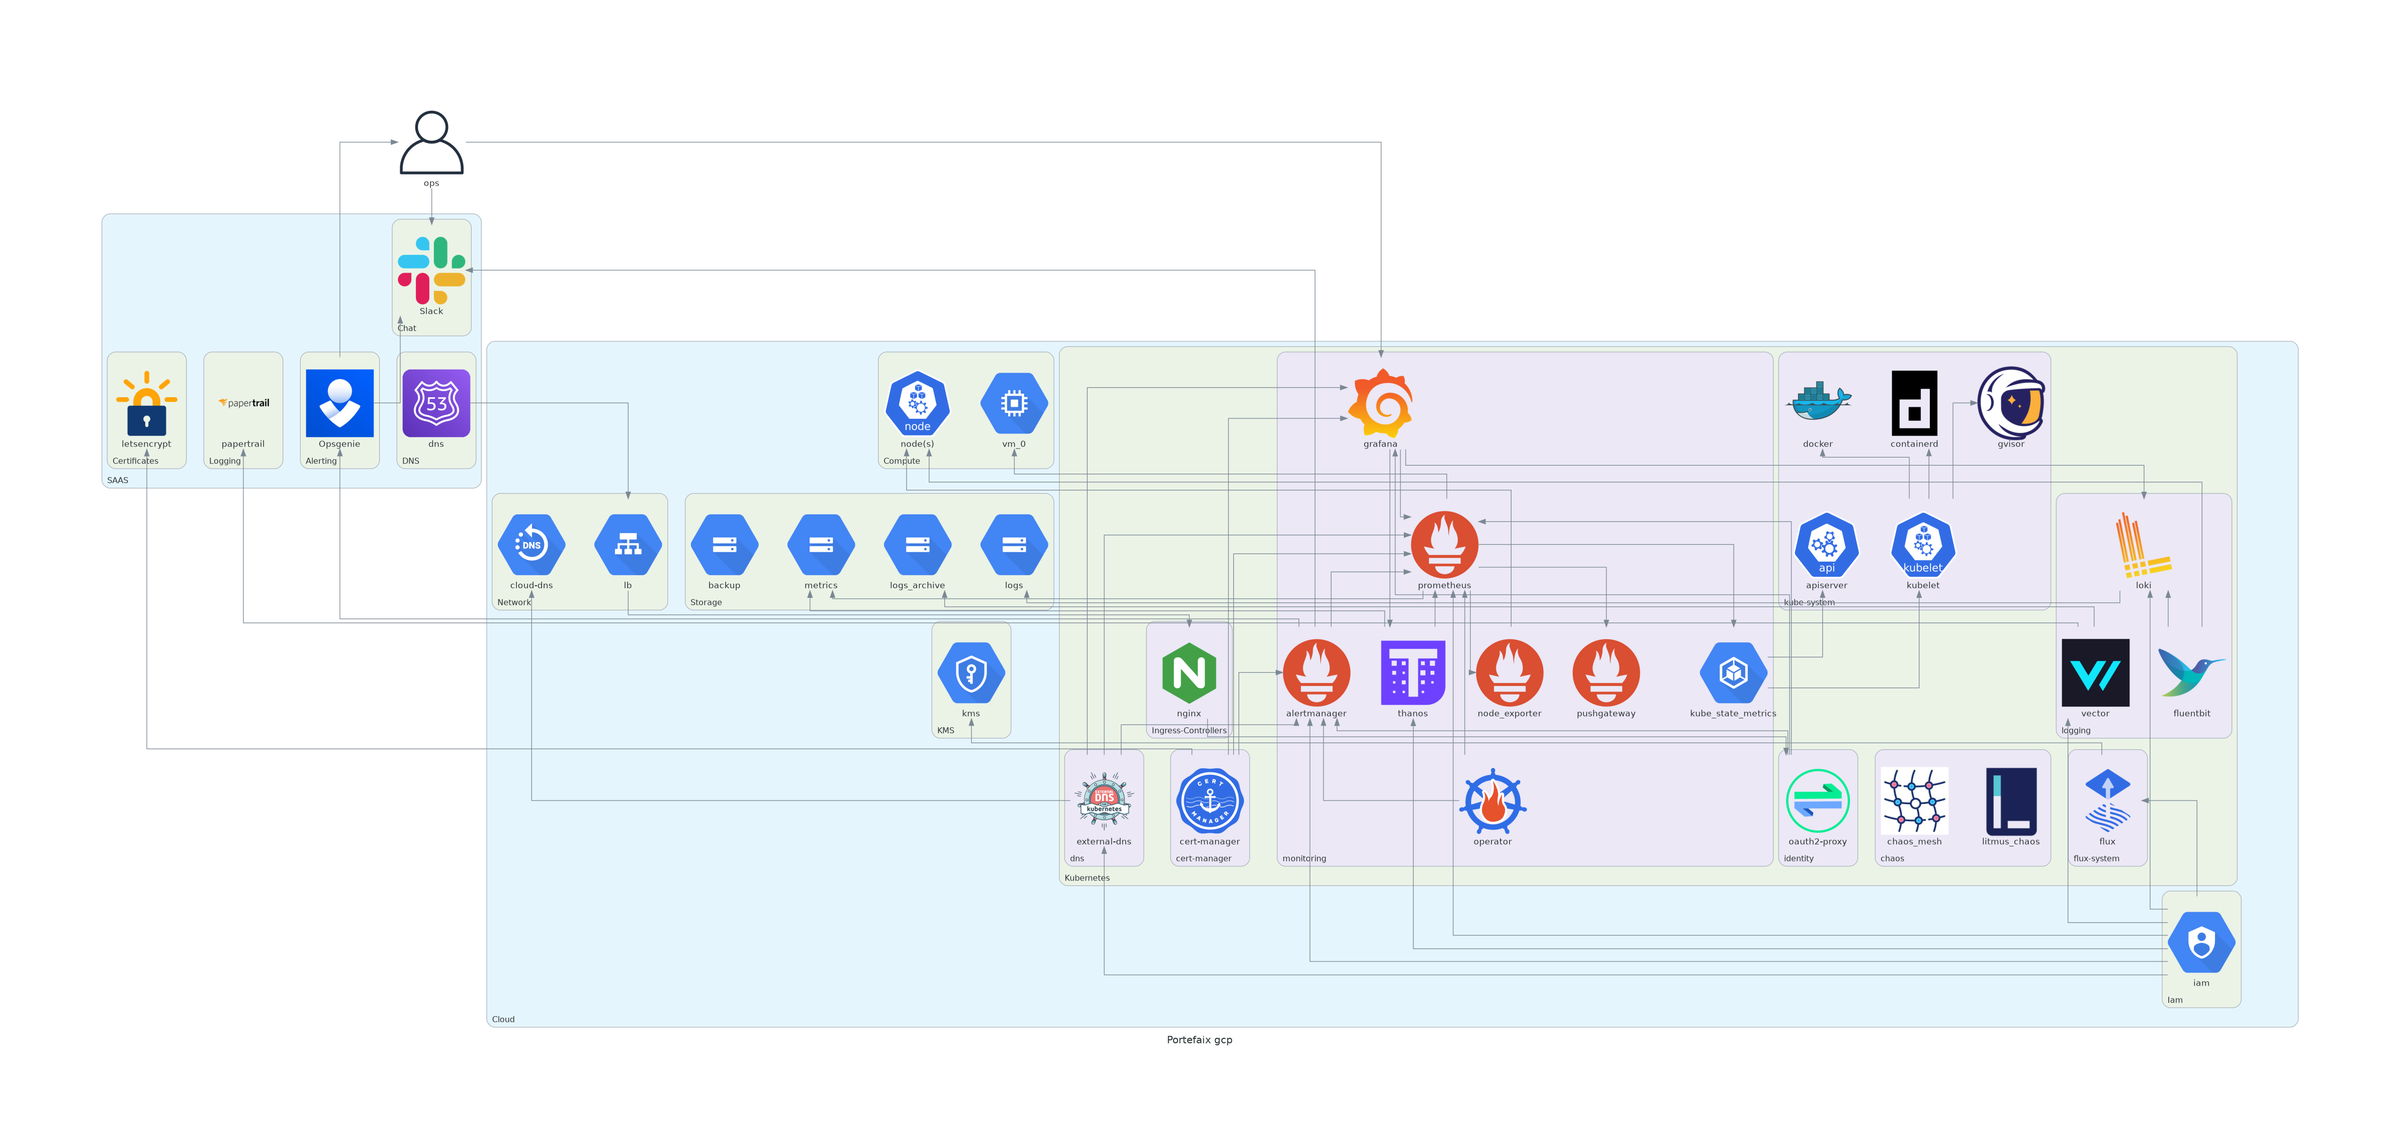
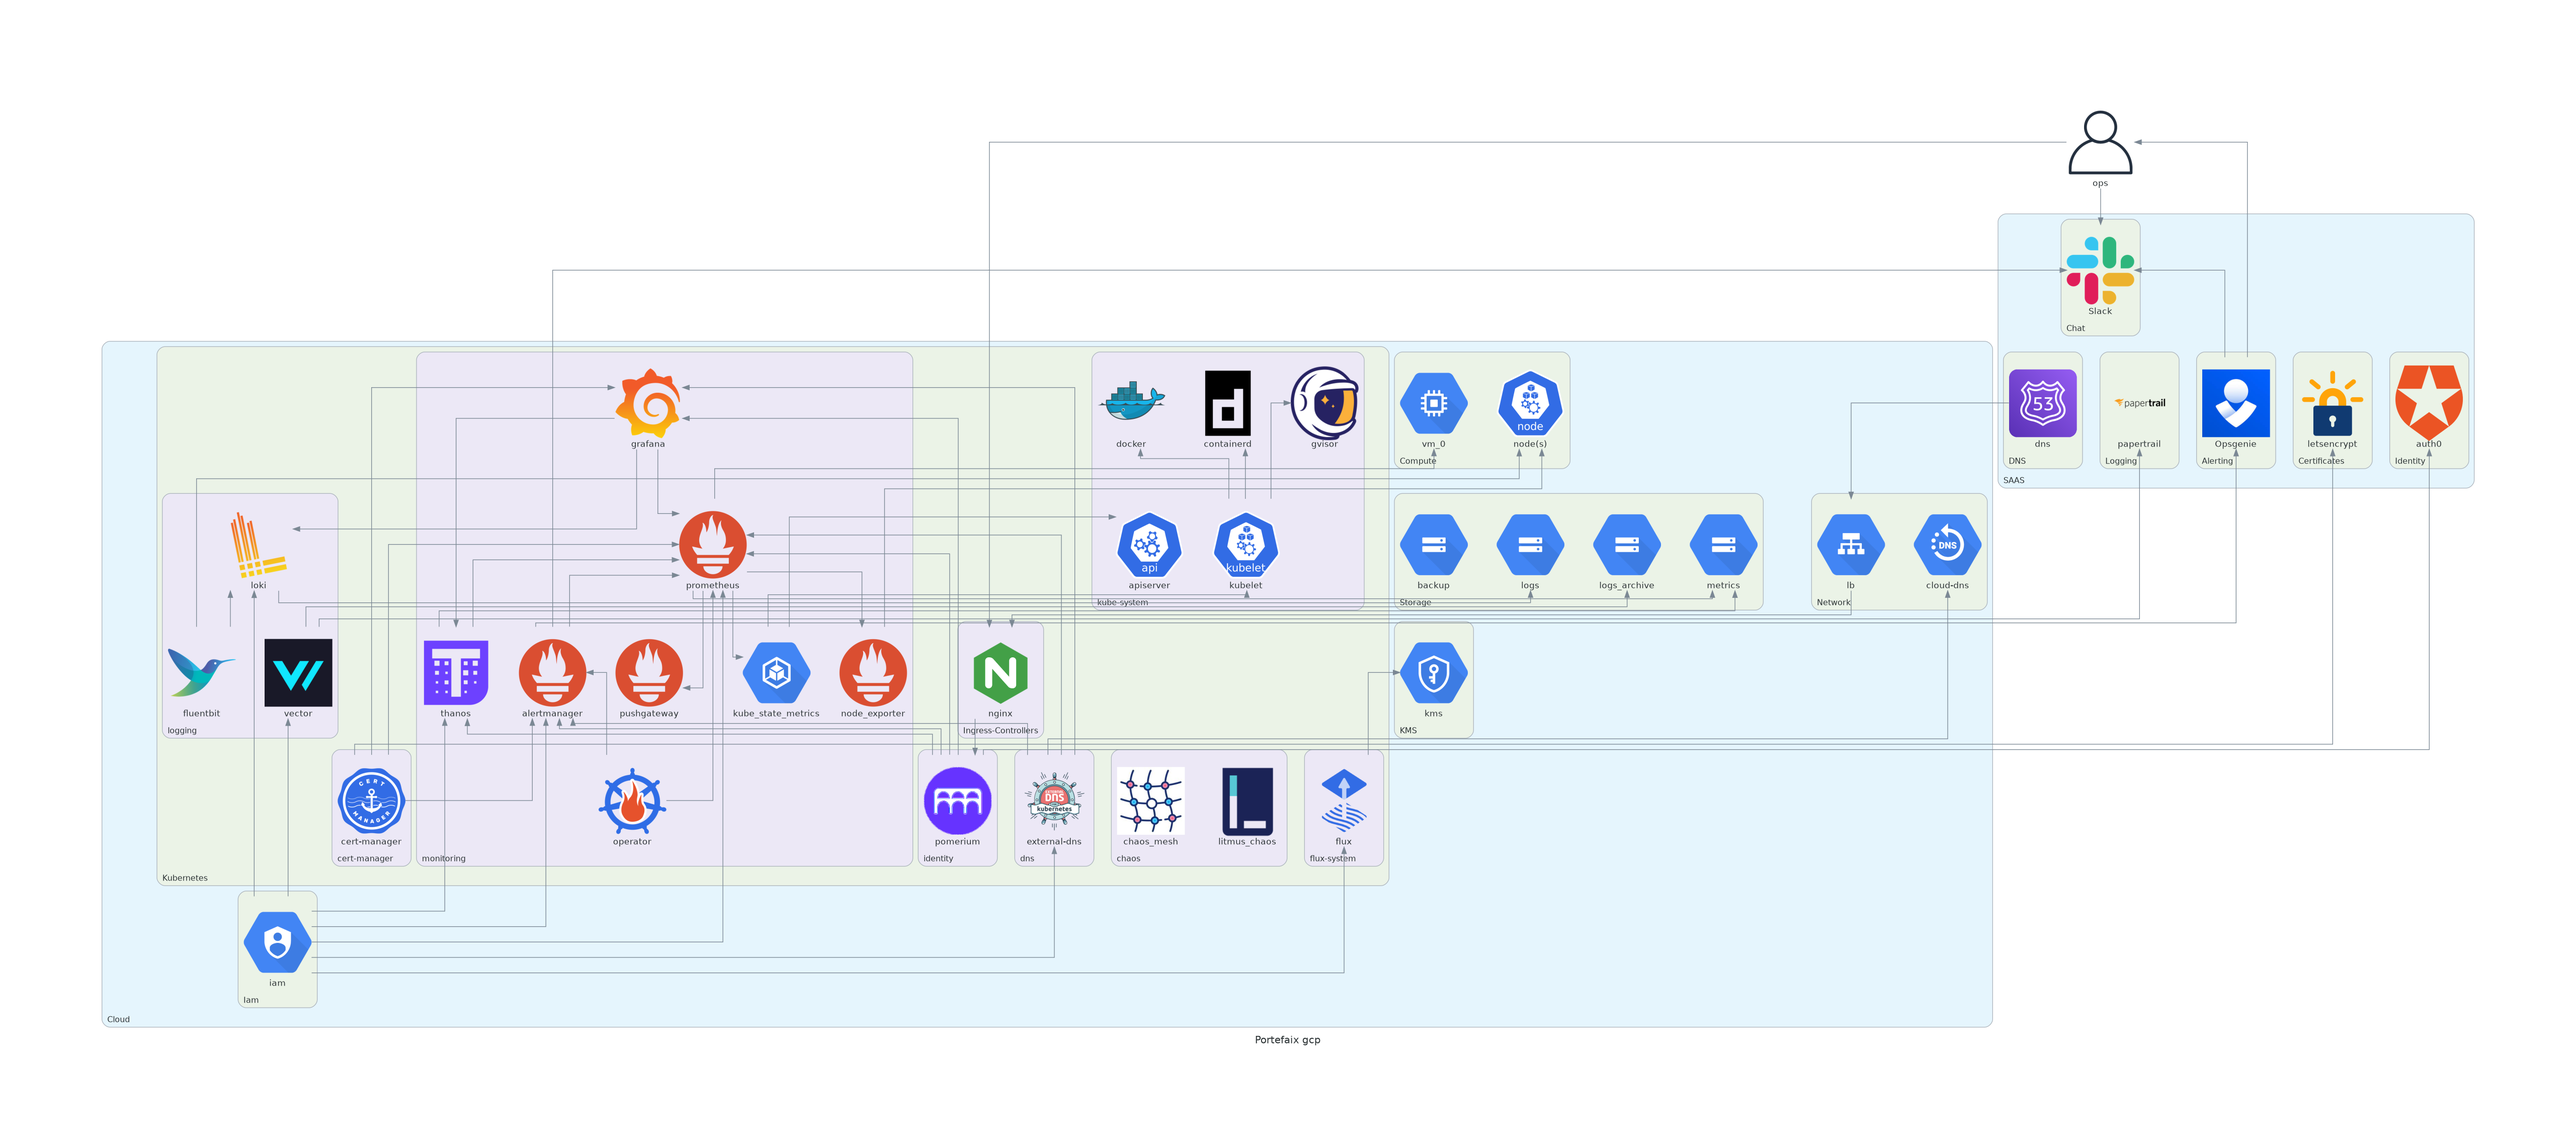
Update: documentation

diff --git a/diagrams/portefaix.py b/diagrams/portefaix.py
@@ -38,6 +38,7 @@ from diagrams.onprem import network as network_onprem
 from diagrams.onprem import vcs
 from diagrams.saas import alerting
 from diagrams.saas import chat
+from diagrams.saas import identity
 from diagrams.saas import logging as saas_logging
 from diagrams import custom
 
@@ -82,6 +83,9 @@ def architecture(cloud_provider, output, direction):
 
             with diagrams.Cluster("Logging"):
                 papertrail = saas_logging.Papertrail("papertrail")
+
+            with diagrams.Cluster("Identity"):
+                auth0 = identity.Auth0("auth0")
 
         with diagrams.Cluster("Cloud"):
 
@@ -146,8 +150,9 @@ def architecture(cloud_provider, output, direction):
                     external_dns >> [grafana, prometheus, alertmanager]
 
                 with diagrams.Cluster("identity"):
-                    oauth2_proxy = k8s.setup_identity()
-                    oauth2_proxy >> [grafana, prometheus, alertmanager]
+                    # oauth2_proxy = k8s.setup_identity()
+                    pomerium = network_onprem.Pomerium("pomerium")
+                    pomerium >> auth0
 
                 with diagrams.Cluster("cert-manager"):
                     cert_manager = certificates.CertManager("cert-manager")
@@ -195,14 +200,18 @@ def architecture(cloud_provider, output, direction):
                 vector >> bucket_logs_archive
                 vector >> papertrail
 
+                # oauth2_proxy >> [grafana, prometheus, alertmanager]
+                pomerium >> [grafana, prometheus, alertmanager, thanos]
+
                 
 
 
         # [grafana, prometheus, thanos, alertmanager] << ingress
-        oauth2_proxy << ingress << lb << dns
+        # oauth2_proxy << ingress << lb << dns
+        pomerium << ingress << lb << dns
 
         opsgenie >> [slack, ops]
-        [grafana, slack] << ops
+        [ingress, slack] << ops
 
         iam >> [flux, prometheus, alertmanager, thanos, loki, external_dns, vector]
 

diff --git a/docs/roadmap.md b/docs/roadmap.md
@@ -59,6 +59,12 @@
 - [ ] [Amazon Secrets manager](https://github.com/aws/containers-roadmap/issues/895) [ [#5](https://github.com/nlamirault/portefaix/issues/5) ]
 - [ ] [Azure Vault](https://github.com/Azure/secrets-store-csi-driver-provider-azure) [ [#6](https://github.com/nlamirault/portefaix/issues/6) ]
 
+### Managing Cloud Services via Kubernetes CRDs
+
+- [ ] [AWS Controllers for Kubernetes (ACK)](https://github.com/aws/aws-controllers-k8s)
+- [ ] [Azure Service Operator (for Kubernetes)](https://github.com/Azure/azure-service-operator)
+- [ ] [Google Config Connector](https://cloud.google.com/config-connector/docs/overview)
+
 <!--
 
 DEBUG
